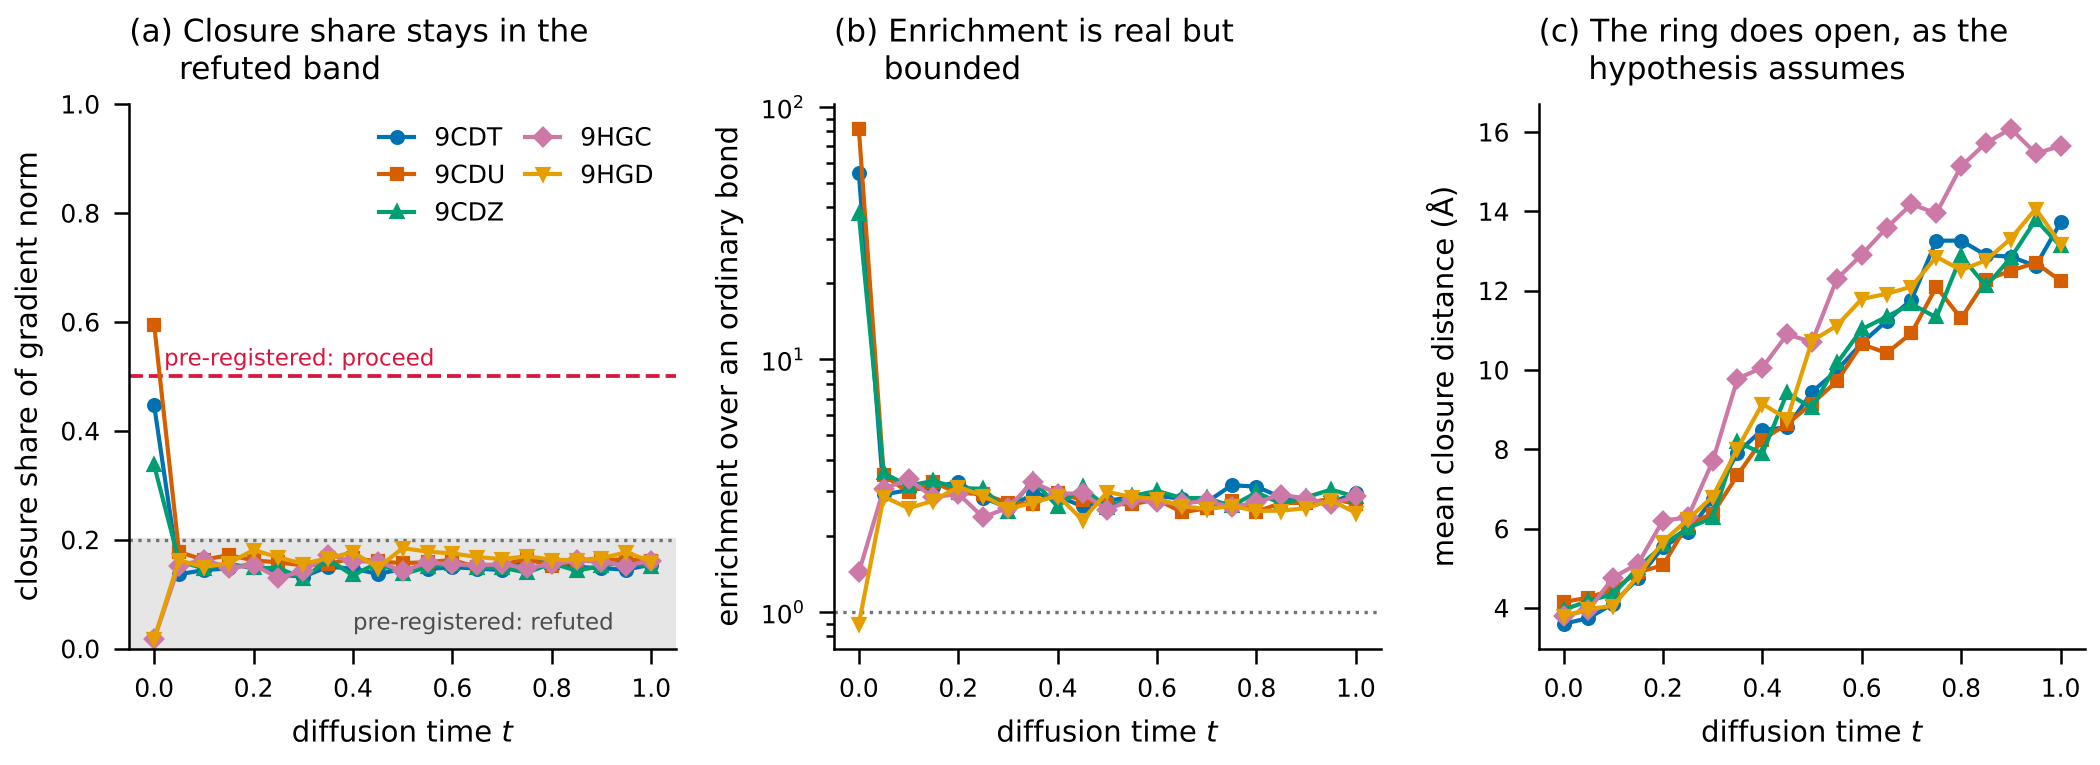
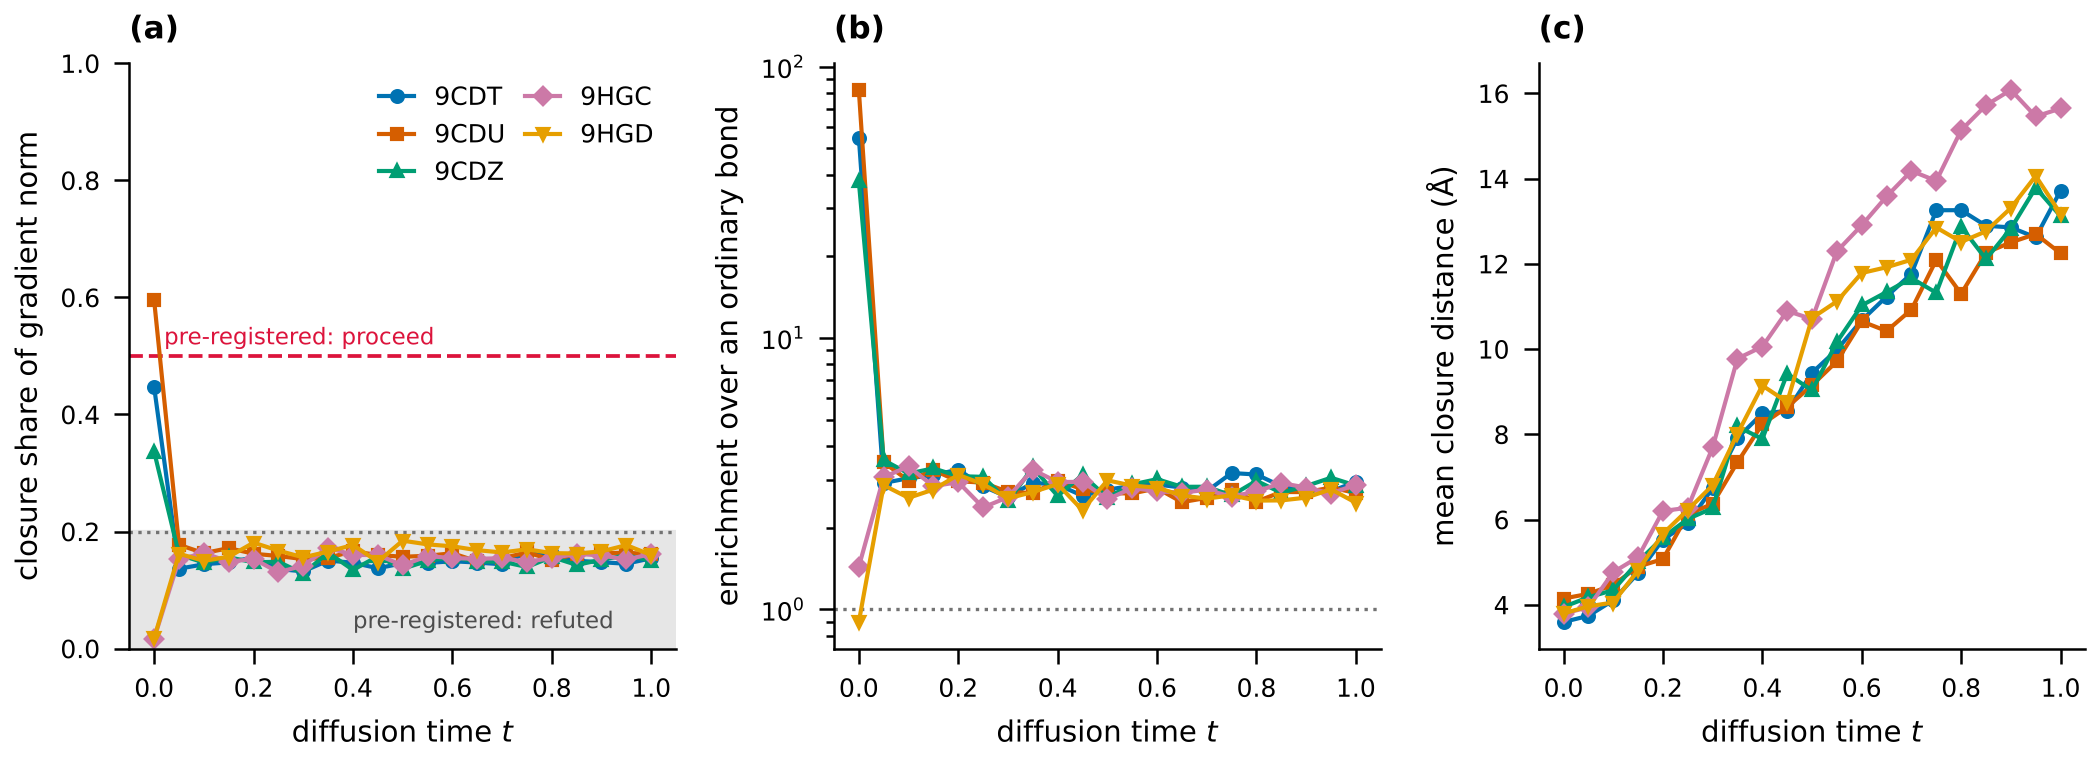
Label figure panels by letter, not by conclusion
Panels carried their finding as a title ("Closure share stays in the refuted
band"). That belongs in the caption, where a reader looks for it and where it
can be read without enlarging the graphic. Panels now carry only (a), (b), (c)
and the manuscript captions describe each one.

Claude-Session: https://claude.ai/code/session_015tTm46E1GJ57NZnBNvKc55

diff --git a/scripts/make_figures.py b/scripts/make_figures.py
@@ -12,6 +12,11 @@ Both figures are drawn only from the CSVs written by phase1_closure.py and
 phase1_chemistries.py; nothing is hand-placed, so a rerun of those analyses
 propagates to the figures.
 
+Panels carry only their letter. What each panel shows belongs in the figure caption,
+where a reader looks for it and where it can be read without enlarging the graphic;
+a conclusion lettered onto the plotting area reads as an artefact of the plotting
+script rather than as a figure an author composed.
+
 Sizing follows ACS Appendix 2 (Preparing Graphics): double-column graphics are
 between 300 and 504 points wide (4.167-7 in), the maximum depth is 660 points
 (9.167 in) including the caption, lettering is at least 4.5 points at the final
@@ -91,7 +96,7 @@ def figure1(rows, out):
     ax.set_ylim(0, 1.0)
     ax.set_xlabel("diffusion time $t$")
     ax.set_ylabel("closure share of gradient norm")
-    ax.set_title("(a) Closure share stays in the\n     refuted band", loc="left")
+    ax.set_title("(a)", loc="left", fontweight="bold")
     ax.legend(frameon=False, ncol=2, handlelength=1.4, columnspacing=0.8)
 
     ax = axes[1]
@@ -104,7 +109,7 @@ def figure1(rows, out):
     ax.set_yscale("log")
     ax.set_xlabel("diffusion time $t$")
     ax.set_ylabel("enrichment over an ordinary bond")
-    ax.set_title("(b) Enrichment is real but\n     bounded", loc="left")
+    ax.set_title("(b)", loc="left", fontweight="bold")
 
     ax = axes[2]
     for i, (name, rs) in enumerate(sorted(groups.items())):
@@ -114,7 +119,7 @@ def figure1(rows, out):
                 color=PALETTE[i % len(PALETTE)])
     ax.set_xlabel("diffusion time $t$")
     ax.set_ylabel(r"mean closure distance ($\mathrm{\AA}$)")
-    ax.set_title("(c) The ring does open, as the\n     hypothesis assumes", loc="left")
+    ax.set_title("(c)", loc="left", fontweight="bold")
 
     for a in axes:
         style(a)
@@ -149,7 +154,7 @@ def figure2(rows, out):
     ax.set_ylim(0, 1.0)
     ax.set_xlabel("diffusion time $t$")
     ax.set_ylabel("closure share of gradient norm")
-    ax.set_title("(a) Only the bicycle group crosses into the\n     partial band", loc="left")
+    ax.set_title("(a)", loc="left", fontweight="bold")
     ax.legend(frameon=False, handlelength=1.4)
 
     ax = axes[1]
@@ -179,8 +184,7 @@ def figure2(rows, out):
     ax.axhline(1.0, color="0.45", ls=":", lw=0.8)
     ax.set_xticks(list(xs), [label[t] for t in order])
     ax.set_ylabel("enrichment over an ordinary bond")
-    ax.set_title("(b) Adding restraints raises the group,\n"
-                 "     not the restraint", loc="left")
+    ax.set_title("(b)", loc="left", fontweight="bold")
     ax.legend(frameon=False)
 
     for a in axes:
